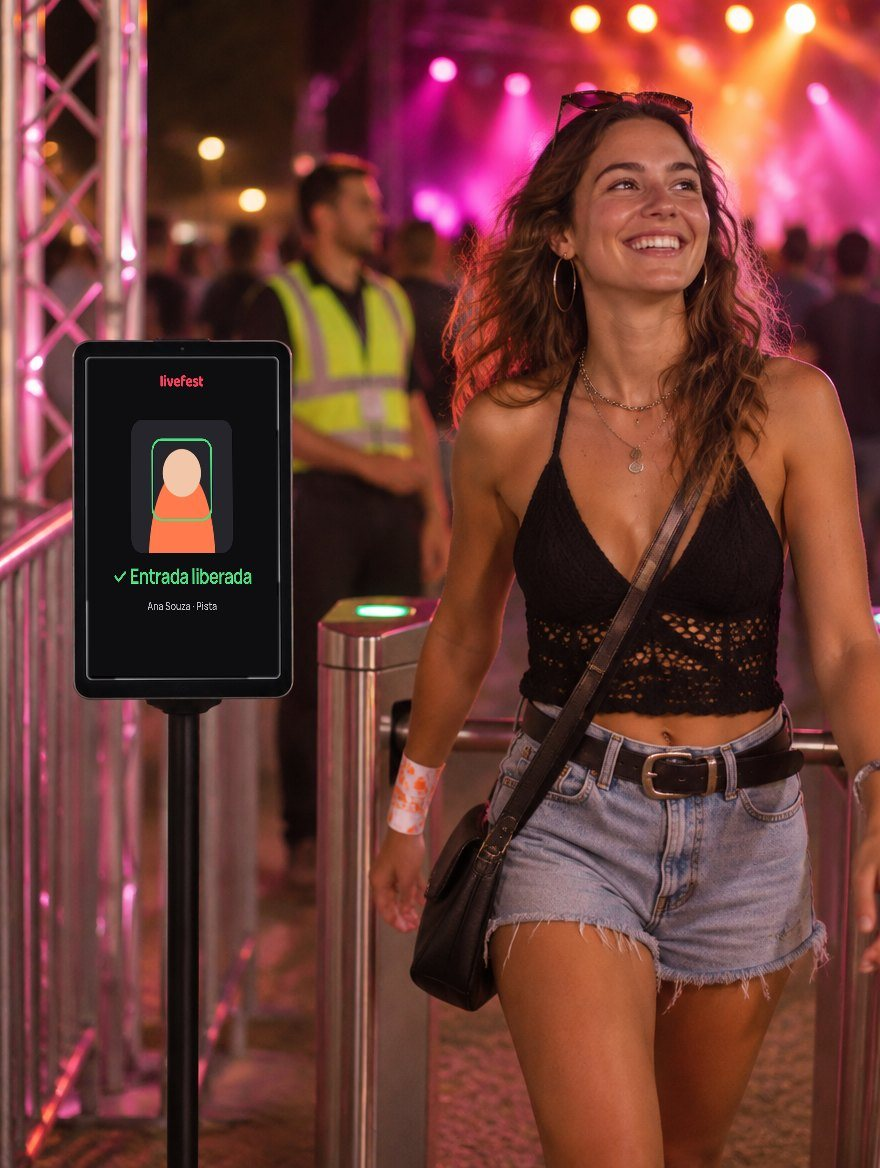
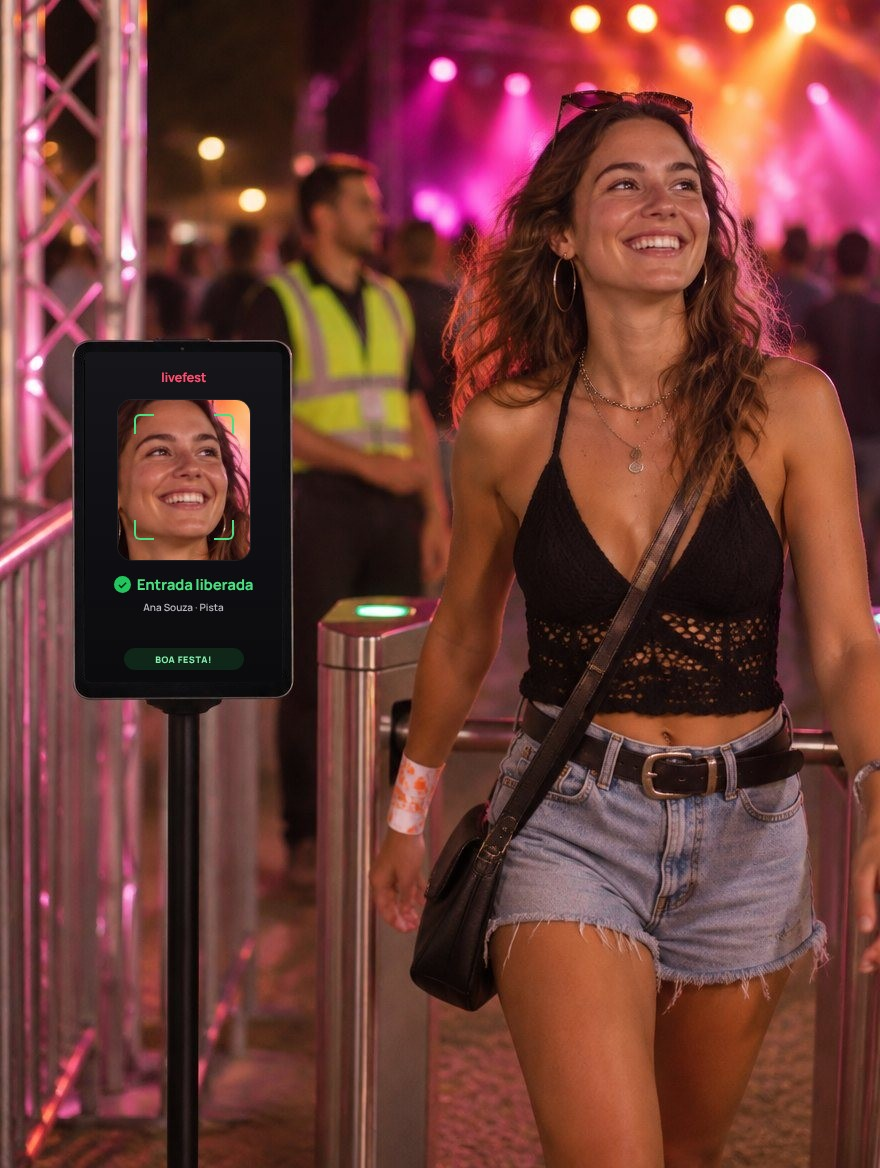
Site: fiscal com foto, WhatsApp apos os modulos, bandeiras nas taxas e ajustes de texto

Changed region(s): [[0.1227, 0.3082, 0.3068, 0.524], [0.092, 0.524, 0.2761, 0.5856]]

diff --git a/index.html b/index.html
@@ -22,7 +22,7 @@
 <link rel="preconnect" href="https://fonts.gstatic.com" crossorigin>
 <link rel="preconnect" href="https://giro-os-api.nucleofull.workers.dev" crossorigin>
 <link href="https://fonts.googleapis.com/css2?family=Baloo+2:wght@800&family=Manrope:wght@500;600;700;800&display=swap" rel="stylesheet">
-<link rel="stylesheet" href="site/css/home.css?v=8">
+<link rel="stylesheet" href="site/css/home.css?v=9">
 <script type="application/ld+json">
 {"@context":"https://schema.org","@type":"Organization","name":"LiveFood","url":"https://livefood.tec.br/","logo":"https://livefood.tec.br/site/img/livefood-logo.png"}
 </script>
@@ -40,7 +40,7 @@
         <div class="sub-painel" id="sub-solucoes">
           <a href="#livefood"><b class="marca-t lf-t">livefood</b><span>Pedidos, salão, delivery e autoatendimento.</span></a>
           <a href="#livepro"><b class="marca-t">live<span class="lf-t" style="display:inline;font:inherit">pro</span></b><span>Custos, compras, estoque e lucro.</span></a>
-          <a href="#livefest"><b class="marca-t" style="color:var(--coral)">livefest</b><span>Eventos, ingressos e acesso pelo rosto.</span></a>
+          <a href="#livefest"><b class="marca-t" style="color:var(--coral)">livefest</b><span>Eventos, ingressos e entrada fácil.</span></a>
           <a href="#livebank"><b class="marca-t grad-t">livebank</b><span>Maquininha, Pix, melhores taxas e split.</span></a>
           <a href="#livefiscal"><b class="marca-t">live<span class="lf-t" style="display:inline;font:inherit">fiscal</span></b><span>Nota fiscal direto da venda.</span></a>
         </div>
@@ -111,7 +111,7 @@
   <!-- SEGMENTOS -->
   <section class="segmentos" id="segmentos" aria-labelledby="seg-t">
     <div class="caixa"><h2 class="t2" id="seg-t" data-revela>Feito para o seu negócio</h2></div>
-    <div class="seg-trilho" id="seg-trilho" tabindex="0" aria-label="Segmentos atendidos"><figure class="seg"><div class="seg-img" style="background-image:url(site/img/segmentos/restaurantes.jpg)" role="img" aria-label="Restaurantes"></div><figcaption>Restaurantes</figcaption></figure><figure class="seg"><div class="seg-img" style="background-image:url(site/img/segmentos/bares.jpg)" role="img" aria-label="Bares"></div><figcaption>Bares</figcaption></figure><figure class="seg"><div class="seg-img" style="background-image:url(site/img/segmentos/padarias.jpg)" role="img" aria-label="Padarias"></div><figcaption>Padarias</figcaption></figure><figure class="seg"><div class="seg-img" style="background-image:url(site/img/segmentos/petshops.jpg)" role="img" aria-label="Pet shops"></div><figcaption>Pet shops</figcaption></figure><figure class="seg"><div class="seg-img" style="background-image:url(site/img/segmentos/farmacias.jpg)" role="img" aria-label="Farmácias"></div><figcaption>Farmácias</figcaption></figure><figure class="seg"><div class="seg-img" style="background-image:url(site/img/segmentos/mercados.jpg)" role="img" aria-label="Mercados"></div><figcaption>Mercados</figcaption></figure><figure class="seg"><div class="seg-img" style="background-image:url(site/img/segmentos/sorveterias.jpg)" role="img" aria-label="Sorveterias"></div><figcaption>Sorveterias</figcaption></figure><figure class="seg"><div class="seg-img" style="background-image:url(site/img/segmentos/quiosques.jpg)" role="img" aria-label="Quiosques"></div><figcaption>Quiosques</figcaption></figure></div>
+    <div class="seg-trilho" id="seg-trilho" tabindex="0" aria-label="Segmentos atendidos"><figure class="seg"><div class="seg-img" style="background-image:url(site/img/segmentos/restaurantes.jpg)" role="img" aria-label="Restaurantes"></div><figcaption>Restaurantes</figcaption></figure><figure class="seg"><div class="seg-img" style="background-image:url(site/img/segmentos/bares.jpg)" role="img" aria-label="Bares"></div><figcaption>Bares</figcaption></figure><figure class="seg"><div class="seg-img" style="background-image:url(site/img/segmentos/padarias.jpg)" role="img" aria-label="Padarias"></div><figcaption>Padarias</figcaption></figure><figure class="seg"><div class="seg-img" style="background-image:url(site/img/segmentos/quiosques.jpg)" role="img" aria-label="Quiosques"></div><figcaption>Quiosques</figcaption></figure><figure class="seg"><div class="seg-img" style="background-image:url(site/img/segmentos/sorveterias.jpg)" role="img" aria-label="Sorveterias"></div><figcaption>Sorveterias</figcaption></figure><figure class="seg"><div class="seg-img" style="background-image:url(site/img/segmentos/petshops.jpg)" role="img" aria-label="Pet shops"></div><figcaption>Pet shops</figcaption></figure><figure class="seg"><div class="seg-img" style="background-image:url(site/img/segmentos/farmacias.jpg)" role="img" aria-label="Farmácias"></div><figcaption>Farmácias</figcaption></figure><figure class="seg"><div class="seg-img" style="background-image:url(site/img/segmentos/mercados.jpg)" role="img" aria-label="Mercados"></div><figcaption>Mercados</figcaption></figure></div>
     <div class="seg-ctrl"><button type="button" class="seg-seta" data-seg="-1" aria-label="Anterior">←</button><div class="seg-pontos" id="seg-pontos" aria-hidden="true"></div><button type="button" class="seg-seta" data-seg="1" aria-label="Próximo">→</button></div>
   </section>
 
@@ -133,7 +133,7 @@
     <div class="caixa">
       <div class="cab">
         <p class="olho" data-revela>O ecossistema</p>
-        <h2 class="t2" data-revela>Cinco produtos. <span class="grad-t">Uma operação só.</span></h2>
+        <h2 class="t2" data-revela>Cinco produtos. <span class="grad-t">Uma operação.</span></h2>
       </div>
       <div class="grade">
         <a class="peca foto p-food" href="#livefood" data-revela="escala" style="background-image:url(site/img/fotos/comanda.jpg)">
@@ -152,21 +152,30 @@
           <h3 class="t3">Eventos, ingressos e acesso.</h3>
           <span class="link-seta">Conhecer <span class="seta" aria-hidden="true">→</span></span>
         </a>
-        <a class="peca foto p-bank" href="#livebank" data-revela="escala" style="background-image:url(site/img/fotos/maq-mao.jpg)">
-          <span class="nome marca-t">livebank</span>
-          <h3 class="t3">Processamento de pagamentos.</h3>
-          <span class="link-seta">Conhecer <span class="seta" aria-hidden="true">→</span></span>
-        </a>
-        <div class="peca p-fiscal" id="livefiscal" data-revela="escala">
-          <div><span class="embreve">Novo</span><span class="nome marca-t">live<b>fiscal</b></span></div>
-          <p class="d"><b>Nota fiscal direto da venda.</b></p>
-          <div class="nota-m" aria-hidden="true"><small>NFC-e</small><b>Nº 000.128</b><i></i><i></i><i style="width:60%"></i><em>Autorizada ✓</em></div>
-        </div>
+        <button type="button" class="peca foto p-bank p-fisc" id="livefiscal" data-abrir-contato data-revela="escala" style="background-image:url(site/img/fotos/fiscal.jpg)">
+          <span class="embreve">Novo</span>
+          <span class="nome marca-t">live<b>fiscal</b></span>
+          <h3 class="t3">Seu fiscal automatizado.</h3>
+          <p class="pf-sub">Emita NFC-e por comando de voz.</p>
+          <span class="link-seta">Quero emitir nota <span class="seta" aria-hidden="true">→</span></span>
+        </button>
       </div>
     </div>
   </section>
 
   <!-- FLUXO -->
+  <section id="atendimento" class="secao produto">
+    <div class="caixa">
+      <div class="prod-texto">
+        <p class="olho" data-revela>Atendimento automático</p>
+        <h2 class="t2" data-revela>O Live atende no <span style="color:#16A34A">WhatsApp.</span></h2>
+        <div class="tags" data-revela><span>Responde na hora</span><span>Anota o pedido</span><span>Cobra por Pix</span><span>24 horas</span></div>
+        <button class="btn btn-escuro" type="button" data-abrir-contato data-revela>Quero no meu WhatsApp <span class="seta" aria-hidden="true">→</span></button>
+      </div>
+      <div class="foto-bloco fw" data-revela="escala" style="background-image:url(site/img/fotos/whats.jpg)"><span class="fb-olho">WhatsApp</span><span class="fb-tit">Pedido fechado sem ninguém digitar</span></div>
+    </div>
+  </section>
+
   <section class="fluxo" id="fluxo" aria-labelledby="fluxo-t">
     <div class="caixa">
       <div class="cab">
@@ -202,17 +211,6 @@
   </section>
 
   <!-- WHATSAPP -->
-  <section id="atendimento" class="secao produto" style="padding-top:0">
-    <div class="caixa">
-      <div class="prod-texto">
-        <p class="olho" data-revela>Atendimento automático</p>
-        <h2 class="t2" data-revela>O Live atende no <span style="color:#16A34A">WhatsApp.</span></h2>
-        <div class="tags" data-revela><span>Responde na hora</span><span>Anota o pedido</span><span>Cobra por Pix</span><span>24 horas</span></div>
-        <button class="btn btn-escuro" type="button" data-abrir-contato data-revela>Quero no meu WhatsApp <span class="seta" aria-hidden="true">→</span></button>
-      </div>
-      <div class="foto-bloco fw" data-revela="escala" style="background-image:url(site/img/fotos/whats.jpg)"><span class="fb-olho">WhatsApp</span><span class="fb-tit">Pedido fechado sem ninguém digitar</span></div>
-    </div>
-  </section>
 
   <!-- LIVEPRO -->
   <section id="livepro" class="secao produto inv escuro">
@@ -245,7 +243,7 @@
       </div>
       <div class="lb-grade">
         <button class="foto-bloco lb-a" type="button" data-abrir-contato data-revela="escala" style="background-image:url(site/img/fotos/fest-cel.jpg)"><span class="fb-olho">Ingressos online</span><span class="fb-tit">O ingresso no celular</span><span class="btn btn-branco">Quero vender ingressos <span class="seta" aria-hidden="true">→</span></span></button>
-        <div class="foto-bloco lb-c" data-revela="escala" style="background-image:url(site/img/fotos/fest-rosto.jpg)"><span class="fb-olho">Entrada pelo rosto</span><span class="fb-tit">O rosto é o ingresso</span></div>
+        <div class="foto-bloco lb-c" data-revela="escala" style="background-image:url(site/img/fotos/fest-rosto.jpg?v=2)"><span class="fb-olho">Entrada fácil</span><span class="fb-tit">O rosto é o ingresso</span></div>
       </div>
     </div>
   </section>
@@ -269,10 +267,12 @@
         </div>
         <div class="bloco-num lb-d" data-revela="escala">
           <p class="bn-tit">As melhores taxas</p>
+          <div class="bn-band"><img src="site/img/bandeiras/visa.svg" alt="Visa"><img src="site/img/bandeiras/mastercard.svg" alt="Mastercard"><img src="site/img/bandeiras/pix.svg" alt="Pix"></div>
           <dl><div><dt>Bruto</dt><dd data-conta="7491.70" data-pre="R$ " data-casas="2">R$ 7.491,70</dd></div><div class="neg"><dt>Taxas</dt><dd data-conta="162.26" data-pre="− R$ " data-casas="2">− R$ 162,26</dd></div><div class="pos"><dt>Líquido</dt><dd data-conta="7329.44" data-pre="R$ " data-casas="2">R$ 7.329,44</dd></div></dl>
         </div>
         <div class="bloco-num lb-e escuro-b" data-revela="escala" style="--atraso:.08s">
           <p class="bn-tit">Split de pagamento</p>
+          <p class="bn-sub">Pague seus fornecedores e receba vantagens fiscais.</p>
           <div class="split" aria-hidden="true"><i style="--w:70%"></i><i class="b" style="--w:30%"></i></div>
           <div class="split-leg"><span><b>70%</b>Loja</span><span><b>30%</b>Parceiro</span></div>
         </div>
@@ -286,7 +286,7 @@
       <div class="numero" data-revela><b class="grad-t" data-conta="5">5</b><span>produtos em um único ecossistema</span></div>
       <div class="numero" data-revela style="--atraso:.08s"><b class="grad-t" data-conta="5">5</b><span>canais de venda no mesmo painel</span></div>
       <div class="numero" data-revela style="--atraso:.16s"><b class="grad-t" data-conta="1">1</b><span>login para toda a operação</span></div>
-      <div class="numero" data-revela style="--atraso:.24s"><b class="grad-t"><span data-conta="24">24</span>h</b><span>com o Live atendendo seus clientes</span></div>
+      <div class="numero" data-revela style="--atraso:.24s"><b class="grad-t" data-conta="24" data-suf="h">24h</b><span>com o Live atendendo seus clientes</span></div>
     </div>
   </section>
 
@@ -358,6 +358,6 @@
 <noscript><style>[data-revela],.capa-texto *,.palco{opacity:1!important;transform:none!important}</style></noscript>
 <script src="site/js/live-mascote.js"></script>
 <script src="site/js/planos.js"></script>
-<script src="site/js/home.js?v=6"></script>
+<script src="site/js/home.js?v=7"></script>
 </body>
 </html>

diff --git a/site/css/home.css b/site/css/home.css
@@ -765,3 +765,15 @@ a.foto-bloco:hover, button.foto-bloco:hover { transform: translateY(-6px); box-s
   [data-revela] { opacity: 1; transform: none; }
   .cam > .boia { animation: none; }
 }
+
+/* fiscal com foto, bandeiras e apoio do split */
+button.peca { font: inherit; text-align: left; border: 0; cursor: pointer; align-items: flex-start; }
+.peca.foto.p-fisc { background-position: 70% 30%; border: 0; }
+.peca.foto.p-fisc::before { background: linear-gradient(90deg, rgba(10, 10, 12, .9) 0%, rgba(10, 10, 12, .55) 38%, rgba(10, 10, 12, 0) 64%), linear-gradient(180deg, rgba(10, 10, 12, 0) 50%, rgba(10, 10, 12, .7) 100%); }
+.p-fisc .embreve { margin-bottom: 4px; }
+.p-fisc .nome b { font-weight: 800; }
+.pf-sub { margin: 0; font-size: clamp(16px, 1.5vw, 20px); font-weight: 600; color: #E4E4EA; max-width: 22em; }
+.bn-band { display: flex; flex-wrap: wrap; gap: 8px; margin-top: 18px; }
+.bn-band img { height: 44px; width: 68px; padding: 9px 12px; border-radius: 12px; background: #fff; border: 1px solid #E1E1E7; object-fit: contain; }
+.bn-sub { margin: 12px 0 0; font-size: 15px; font-weight: 600; line-height: 1.4; color: #A3A3AD; max-width: 20em; }
+@media (max-width: 720px) { .peca.foto.p-fisc { background-position: 82% 30%; } .peca.foto.p-fisc::before { background: linear-gradient(180deg, rgba(10, 10, 12, 0) 30%, rgba(10, 10, 12, .75) 66%, rgba(10, 10, 12, .96) 100%); } }

diff --git a/site/js/home.js b/site/js/home.js
@@ -28,12 +28,12 @@
     const alvos = raiz.matches && raiz.matches('[data-conta]') ? [raiz] : $$('[data-conta]', raiz);
     alvos.forEach((el) => {
       if (el.dataset.contou) return; el.dataset.contou = '1';
-      const fim = parseFloat(el.dataset.conta), casas = +(el.dataset.casas || 0), pre = el.dataset.pre || '';
+      const fim = parseFloat(el.dataset.conta), casas = +(el.dataset.casas || 0), pre = el.dataset.pre || '', suf = el.dataset.suf || '';
       if (calmo || !isFinite(fim)) return;
       const t0 = performance.now(), dur = 1500 + Math.min(900, fim / 20);
       (function passo(t) {
         const p = limita((t - t0) / dur, 0, 1), s = 1 - Math.pow(1 - p, 4);
-        el.textContent = pre + formata(fim * s, casas);
+        el.textContent = pre + formata(fim * s, casas) + suf;
         if (p < 1) requestAnimationFrame(passo);
       })(t0);
     });
